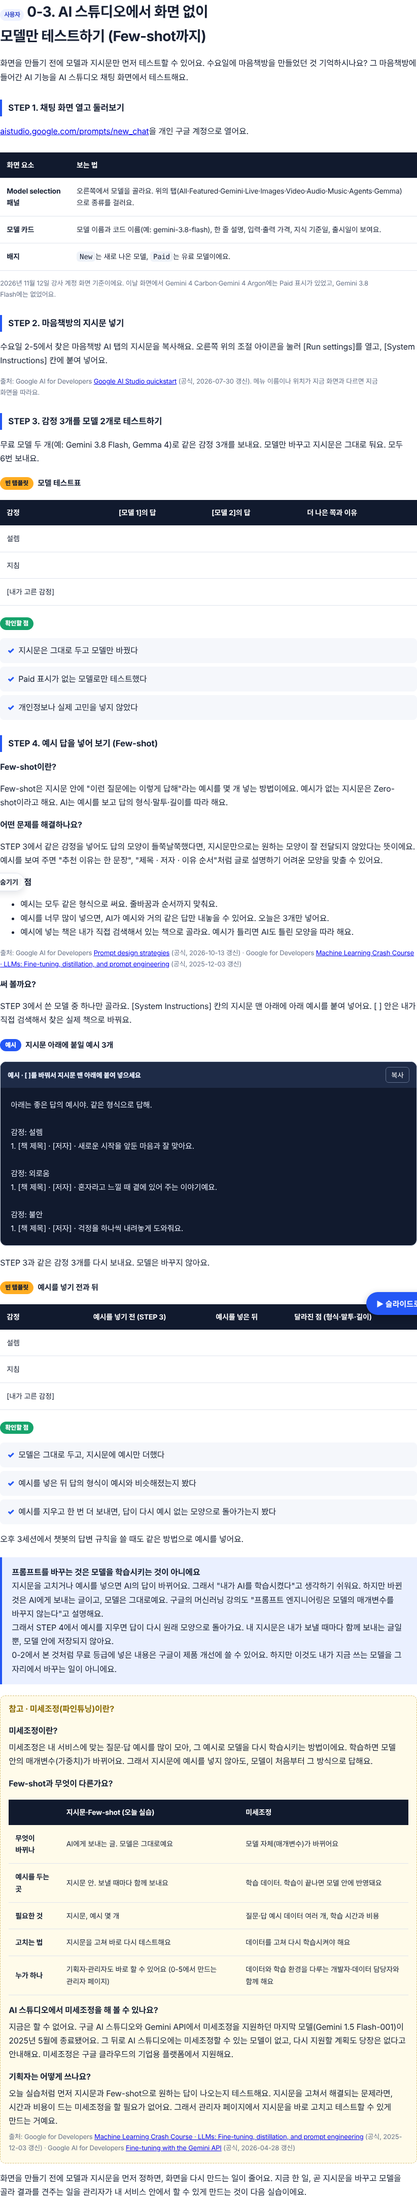
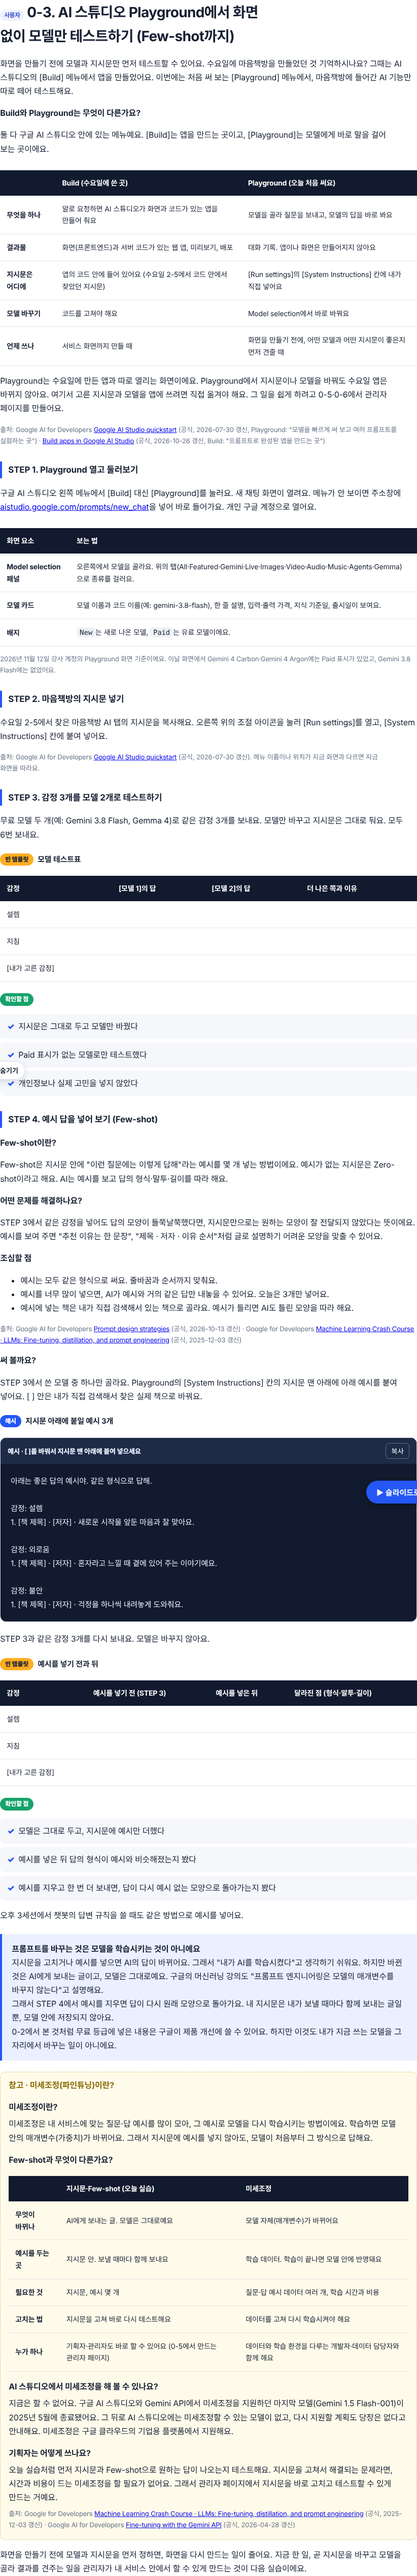
3주차 DAY 4 0-3: Build와 Playground 차이 설명 추가, Playground 진입 안내·용어 통일
Claude-Session: https://claude.ai/code/session_01C4uqyEJDMMad4kDgLNX9Dk

diff --git a/261109-ai-pm-week3/d4-claude-code-chatbot.html b/261109-ai-pm-week3/d4-claude-code-chatbot.html
@@ -295,7 +295,7 @@ aside nav a.active{border-left-color:var(--blue)}
 <div class="nav-title">전체 목차</div>
 <div class="grp"><div class="grp-label">교육 안내</div><a class="l2" href="#overview">교육 개요</a><a class="l2" href="#prep">수업 전 준비</a><a class="l2" href="#tt">타임테이블</a></div>
 <div class="grp"><div class="grp-label">오늘의 단어</div><a class="l2" href="#words">오늘의 단어</a></div>
-<div class="grp"><div class="grp-label">SESSION 0</div><a class="l2" href="#s0">AI 서비스를 써 보고 관리자 페이지 만들기</a><a class="l3" href="#s0-1">0-1. 뤼튼·수노 써 보기</a><a class="l3" href="#s0-2">0-2. AI 서비스와 AI 스튜디오</a><a class="l3" href="#s0-3">0-3. 화면 없이 모델만 테스트·Few-shot</a><a class="l3" href="#s0-4">0-4. [기획자] 관리자 페이지 UI 설계</a><a class="l3" href="#s0-5">0-5. [구현] 프롬프트 변경 기능</a><a class="l3" href="#s0-6">0-6. [구현] AI 스튜디오·모델 선택</a><a class="l3" href="#s0-7">0-7. [확인] 기획서와 결과 견주기</a><a class="l3" href="#s0-8">0-8. 결과</a></div>
+<div class="grp"><div class="grp-label">SESSION 0</div><a class="l2" href="#s0">AI 서비스를 써 보고 관리자 페이지 만들기</a><a class="l3" href="#s0-1">0-1. 뤼튼·수노 써 보기</a><a class="l3" href="#s0-2">0-2. AI 서비스와 AI 스튜디오</a><a class="l3" href="#s0-3">0-3. Playground에서 모델만 테스트·Few-shot</a><a class="l3" href="#s0-4">0-4. [기획자] 관리자 페이지 UI 설계</a><a class="l3" href="#s0-5">0-5. [구현] 프롬프트 변경 기능</a><a class="l3" href="#s0-6">0-6. [구현] AI 스튜디오·모델 선택</a><a class="l3" href="#s0-7">0-7. [확인] 기획서와 결과 견주기</a><a class="l3" href="#s0-8">0-8. 결과</a></div>
 <div class="grp"><div class="grp-label">SESSION 1</div><a class="l2" href="#s1">클로드 코드란?</a><a class="l3" href="#s1-1">1-1. 클로드 코드(데스크톱 앱)란?</a><a class="l3" href="#s1-2">1-2. 오늘 만들 것 한눈에 보기</a></div>
 <div class="grp"><div class="grp-label">SESSION 2</div><a class="l2" href="#s2">설치하고 첫 세션 열기</a><a class="l3" href="#s2-1">2-1. 데스크톱 앱 설치와 Code 탭 열기</a><a class="l3" href="#s2-2">2-2. 프로젝트 폴더를 열고 이벤트 정보 파일 만들기</a><a class="l3" href="#s2-3">2-3. 결과</a></div>
 <div class="grp"><div class="grp-label">SESSION 3</div><a class="l2" href="#s3">챗봇이 지킬 답변 규칙 쓰기</a><a class="l3" href="#s3-1">3-1. 시스템 프롬프트·Few-shot·CoT란?</a><a class="l3" href="#s3-2">3-2. 시스템 프롬프트 쓰기</a><a class="l3" href="#s3-3">3-3. 예시 답변(Few-shot)과 판단 순서(CoT) 더하기</a><a class="l3" href="#s3-4">3-4. 결과</a></div>
@@ -406,10 +406,10 @@ aside nav a.active{border-left-color:var(--blue)}
 
 <div class="topic" id="s0-2"><h3><span class="stage">개념</span>0-2. 내가 써 본 AI 서비스와 구글 AI 스튜디오는 어떻게 다른가요?</h3>
 <h4>AI 서비스는 무엇으로 이루어져 있나요?</h4>
-<p>뤼튼과 수노는 AI 모델 위에 회사가 만든 화면을 얹고, 회사가 정한 지시문으로 AI를 불러요. 사용자는 화면만 쓰고, 모델과 지시문은 볼 수 없어요. 구글 AI 스튜디오의 채팅 화면은 구글이 자기 모델을 최소한의 화면만 얹어 그대로 써 보게 한 곳이에요. 지시문은 내가 직접 써요.</p>
-<div class="table-wrap"><table><tr><th></th><th>뤼튼·수노</th><th>구글 AI 스튜디오 채팅 화면</th><th>내 서비스(마음책방)</th></tr>
+<p>뤼튼과 수노는 AI 모델 위에 회사가 만든 화면을 얹고, 회사가 정한 지시문으로 AI를 불러요. 사용자는 화면만 쓰고, 모델과 지시문은 볼 수 없어요. 구글 AI 스튜디오의 Playground는 구글이 자기 모델을 최소한의 화면만 얹어 그대로 써 보게 한 곳이에요. 지시문은 내가 직접 써요.</p>
+<div class="table-wrap"><table><tr><th></th><th>뤼튼·수노</th><th>구글 AI 스튜디오 Playground</th><th>내 서비스(마음책방)</th></tr>
 <tr><td><b>AI 모델</b></td><td>회사가 골라요</td><td>내가 골라요</td><td>관리자가 골라요 (0-6에서 만들어요)</td></tr>
-<tr><td><b>화면</b></td><td>회사가 만든 화면</td><td>테스트용 최소 화면</td><td>사용자 화면 + 관리자 화면</td></tr>
+<tr><td><b>화면</b></td><td>회사가 만든 화면</td><td>테스트용 최소 화면 (앱은 [Build]에서 따로 만들어요)</td><td>사용자 화면 + 관리자 화면</td></tr>
 <tr><td><b>지시문(프롬프트)</b></td><td>사용자는 볼 수 없어요</td><td>내가 직접 써요</td><td>관리자가 고쳐요 (0-5에서 만들어요)</td></tr>
 </table></div>
 <p class="small">이 표는 이해를 돕기 위한 비유예요. 서비스마다 실제 구조는 다를 수 있어요.</p>
@@ -428,16 +428,27 @@ aside nav a.active{border-left-color:var(--blue)}
 </table></div>
 </div>
 
-<div class="topic" id="s0-3"><h3><span class="stage">사용자</span>0-3. AI 스튜디오에서 화면 없이 모델만 테스트하기 (Few-shot까지)</h3>
-<p>화면을 만들기 전에 모델과 지시문만 먼저 테스트할 수 있어요. 수요일에 마음책방을 만들었던 것 기억하시나요? 그 마음책방에 들어간 AI 기능을 AI 스튜디오 채팅 화면에서 테스트해요.</p>
-<p><b>STEP 1. 채팅 화면 열고 둘러보기</b></p>
-<p><a href="https://aistudio.google.com/prompts/new_chat" target="_blank" rel="noopener">aistudio.google.com/prompts/new_chat</a>을 개인 구글 계정으로 열어요.</p>
+<div class="topic" id="s0-3"><h3><span class="stage">사용자</span>0-3. AI 스튜디오 Playground에서 화면 없이 모델만 테스트하기 (Few-shot까지)</h3>
+<p>화면을 만들기 전에 모델과 지시문만 먼저 테스트할 수 있어요. 수요일에 마음책방을 만들었던 것 기억하시나요? 그때는 AI 스튜디오의 [Build] 메뉴에서 앱을 만들었어요. 이번에는 처음 써 보는 [Playground] 메뉴에서, 마음책방에 들어간 AI 기능만 따로 떼어 테스트해요.</p>
+<h4>Build와 Playground는 무엇이 다른가요?</h4>
+<p>둘 다 구글 AI 스튜디오 안에 있는 메뉴예요. [Build]는 앱을 만드는 곳이고, [Playground]는 모델에게 바로 말을 걸어 보는 곳이에요.</p>
+<div class="table-wrap"><table><tr><th></th><th>Build (수요일에 쓴 곳)</th><th>Playground (오늘 처음 써요)</th></tr>
+<tr><td><b>무엇을 하나</b></td><td>말로 요청하면 AI 스튜디오가 화면과 코드가 있는 앱을 만들어 줘요</td><td>모델을 골라 질문을 보내고, 모델의 답을 바로 봐요</td></tr>
+<tr><td><b>결과물</b></td><td>화면(프론트엔드)과 서버 코드가 있는 웹 앱, 미리보기, 배포</td><td>대화 기록. 앱이나 화면은 만들어지지 않아요</td></tr>
+<tr><td><b>지시문은 어디에</b></td><td>앱의 코드 안에 들어 있어요 (수요일 2-5에서 코드 안에서 찾았던 지시문)</td><td>[Run settings]의 [System Instructions] 칸에 내가 직접 넣어요</td></tr>
+<tr><td><b>모델 바꾸기</b></td><td>코드를 고쳐야 해요</td><td>Model selection에서 바로 바꿔요</td></tr>
+<tr><td><b>언제 쓰나</b></td><td>서비스 화면까지 만들 때</td><td>화면을 만들기 전에, 어떤 모델과 어떤 지시문이 좋은지 먼저 견줄 때</td></tr>
+</table></div>
+<p>Playground는 수요일에 만든 앱과 따로 열리는 화면이에요. Playground에서 지시문이나 모델을 바꿔도 수요일 앱은 바뀌지 않아요. 여기서 고른 지시문과 모델을 앱에 쓰려면 직접 옮겨야 해요. 그 일을 쉽게 하려고 0-5·0-6에서 관리자 페이지를 만들어요.</p>
+<p class="source-note">출처: Google AI for Developers <a href="https://ai.google.dev/gemini-api/docs/ai-studio-quickstart" target="_blank" rel="noopener">Google AI Studio quickstart</a> (공식, 2026-07-30 갱신, Playground: "모델을 빠르게 써 보고 여러 프롬프트를 실험하는 곳") · <a href="https://ai.google.dev/gemini-api/docs/aistudio-build-mode" target="_blank" rel="noopener">Build apps in Google AI Studio</a> (공식, 2026-10-26 갱신, Build: "프롬프트로 완성된 앱을 만드는 곳")</p>
+<p><b>STEP 1. Playground 열고 둘러보기</b></p>
+<p>구글 AI 스튜디오 왼쪽 메뉴에서 [Build] 대신 [Playground]를 눌러요. 새 채팅 화면이 열려요. 메뉴가 안 보이면 주소창에 <a href="https://aistudio.google.com/prompts/new_chat" target="_blank" rel="noopener">aistudio.google.com/prompts/new_chat</a>을 넣어 바로 들어가요. 개인 구글 계정으로 열어요.</p>
 <div class="table-wrap"><table><tr><th>화면 요소</th><th>보는 법</th></tr>
 <tr><td><b>Model selection 패널</b></td><td>오른쪽에서 모델을 골라요. 위의 탭(All·Featured·Gemini·Live·Images·Video·Audio·Music·Agents·Gemma)으로 종류를 걸러요.</td></tr>
 <tr><td><b>모델 카드</b></td><td>모델 이름과 코드 이름(예: gemini-3.8-flash), 한 줄 설명, 입력·출력 가격, 지식 기준일, 출시일이 보여요.</td></tr>
 <tr><td><b>배지</b></td><td><code class="inline">New</code>는 새로 나온 모델, <code class="inline">Paid</code>는 유료 모델이에요.</td></tr>
 </table></div>
-<p class="source-note">2026년 11월 12일 강사 계정 화면 기준이에요. 이날 화면에서 Gemini 4 Carbon·Gemini 4 Argon에는 Paid 표시가 있었고, Gemini 3.8 Flash에는 없었어요.</p>
+<p class="source-note">2026년 11월 12일 강사 계정의 Playground 화면 기준이에요. 이날 화면에서 Gemini 4 Carbon·Gemini 4 Argon에는 Paid 표시가 있었고, Gemini 3.8 Flash에는 없었어요.</p>
 <p><b>STEP 2. 마음책방의 지시문 넣기</b></p>
 <p>수요일 2-5에서 찾은 마음책방 AI 탭의 지시문을 복사해요. 오른쪽 위의 조절 아이콘을 눌러 [Run settings]를 열고, [System Instructions] 칸에 붙여 넣어요.</p>
 <p class="source-note">출처: Google AI for Developers <a href="https://ai.google.dev/gemini-api/docs/ai-studio-quickstart" target="_blank" rel="noopener">Google AI Studio quickstart</a> (공식, 2026-07-30 갱신). 메뉴 이름이나 위치가 지금 화면과 다르면 지금 화면을 따라요.</p>
@@ -465,7 +476,7 @@ aside nav a.active{border-left-color:var(--blue)}
 </ul>
 <p class="source-note">출처: Google AI for Developers <a href="https://ai.google.dev/gemini-api/docs/prompting-strategies" target="_blank" rel="noopener">Prompt design strategies</a> (공식, 2026-10-13 갱신) · Google for Developers <a href="https://developers.google.com/machine-learning/crash-course/llm/tuning" target="_blank" rel="noopener">Machine Learning Crash Course · LLMs: Fine-tuning, distillation, and prompt engineering</a> (공식, 2025-12-03 갱신)</p>
 <h4>써 볼까요?</h4>
-<p>STEP 3에서 쓴 모델 중 하나만 골라요. [System Instructions] 칸의 지시문 맨 아래에 아래 예시를 붙여 넣어요. [ ] 안은 내가 직접 검색해서 찾은 실제 책으로 바꿔요.</p>
+<p>STEP 3에서 쓴 모델 중 하나만 골라요. Playground의 [System Instructions] 칸의 지시문 맨 아래에 아래 예시를 붙여 넣어요. [ ] 안은 내가 직접 검색해서 찾은 실제 책으로 바꿔요.</p>
 <p class="blk k-ex"><span>예시</span>지시문 아래에 붙일 예시 3개</p>
 <div class="copybox"><div class="copyhead"><span>예시 · [ ]를 바꿔서 지시문 맨 아래에 붙여 넣으세요</span><button type="button">복사</button></div><pre>아래는 좋은 답의 예시야. 같은 형식으로 답해.
 
@@ -574,7 +585,7 @@ aside nav a.active{border-left-color:var(--blue)}
 </div>
 
 <div class="topic" id="s0-7"><h3><span class="stage check">기획자·확인</span>0-7. 기획서와 결과 견주기</h3>
-<p>기획자로 돌아와요. 0-4 기획서의 완료 기준으로 판단하고, 0-3에서 채팅 화면으로 테스트한 결과와도 견줘요.</p>
+<p>기획자로 돌아와요. 0-4 기획서의 완료 기준으로 판단하고, 0-3에서 Playground로 테스트한 결과와도 견줘요.</p>
 <p class="blk k-tpl"><span>빈 템플릿</span>관리자 페이지 확인표</p>
 <div class="table-wrap"><table class="tpl">
 <tr><th>완료 기준</th><th>판단(맞다·아니다)</th><th>확인한 것</th></tr>
@@ -582,7 +593,7 @@ aside nav a.active{border-left-color:var(--blue)}
 <tr><td>되돌리기를 누르면 처음 지시문으로 돌아간다</td><td></td><td></td></tr>
 <tr><td>모델을 2개 이상 고를 수 있다</td><td></td><td></td></tr>
 <tr><td>감정 3개의 결과가 모델별로 나란히 보인다</td><td></td><td></td></tr>
-<tr><td>0-3 채팅 화면의 결과와 앱의 결과가 비슷하다</td><td></td><td></td></tr>
+<tr><td>0-3 Playground의 결과와 앱의 결과가 비슷하다</td><td></td><td></td></tr>
 </table></div>
 <p class="blk k-chk"><span>확인할 점</span></p>
 <ul class="checklist"><li>테스트할 때마다 무료 한도를 써요. 감정 3개 × 모델 2개, 한 번씩만 눌렀다</li><li>내가 고른 모델과 그 이유를 한 줄로 적었다</li></ul>

diff --git a/_pr-notes/d4_AI서비스벤치마킹·관리자페이지_세션0추가_261112/README.md b/_pr-notes/d4_AI서비스벤치마킹·관리자페이지_세션0추가_261112/README.md
@@ -1,5 +1,10 @@
 # DAY 4 SESSION 0 추가 · AI 서비스를 써 보고, 관리자가 프롬프트를 고칠 수 있게 만들기 (2026-11-12)
 
+## 3차 수정 (로린 님 지적: 학생은 Playground를 처음 씀)
+- 0-3 맨 앞에 "Build와 Playground는 무엇이 다른가요?" 비교표(무엇을 하나·결과물·지시문 위치·모델 바꾸기·언제 쓰나) 추가
+- "Playground에서 바꿔도 수요일 앱은 안 바뀜 → 그래서 관리자 페이지" 연결
+- STEP 1을 "왼쪽 메뉴에서 [Build] 대신 [Playground]"로, 0-2·0-7의 '채팅 화면' 표현을 Playground로 통일
+
 ## 2차 수정 (로린 님 요청)
 - 0-3 STEP 4 "예시 답을 넣어 보기(Few-shot)" 추가: Few-shot이란? → 해결하는 문제 → 조심할 점(형식 통일, 너무 많으면 예시만 따라 함, 실제 책으로) → 예시 3개 붙여 넣기 → 넣기 전·후 비교표 → 예시를 지우면 돌아가는지 확인
 - 강조 상자 "프롬프트를 바꾸는 것은 모델을 학습시키는 것이 아니에요" (구글 ML 강의: 프롬프트 엔지니어링은 매개변수를 바꾸지 않음, 무료 등급 데이터 활용과도 구분)
